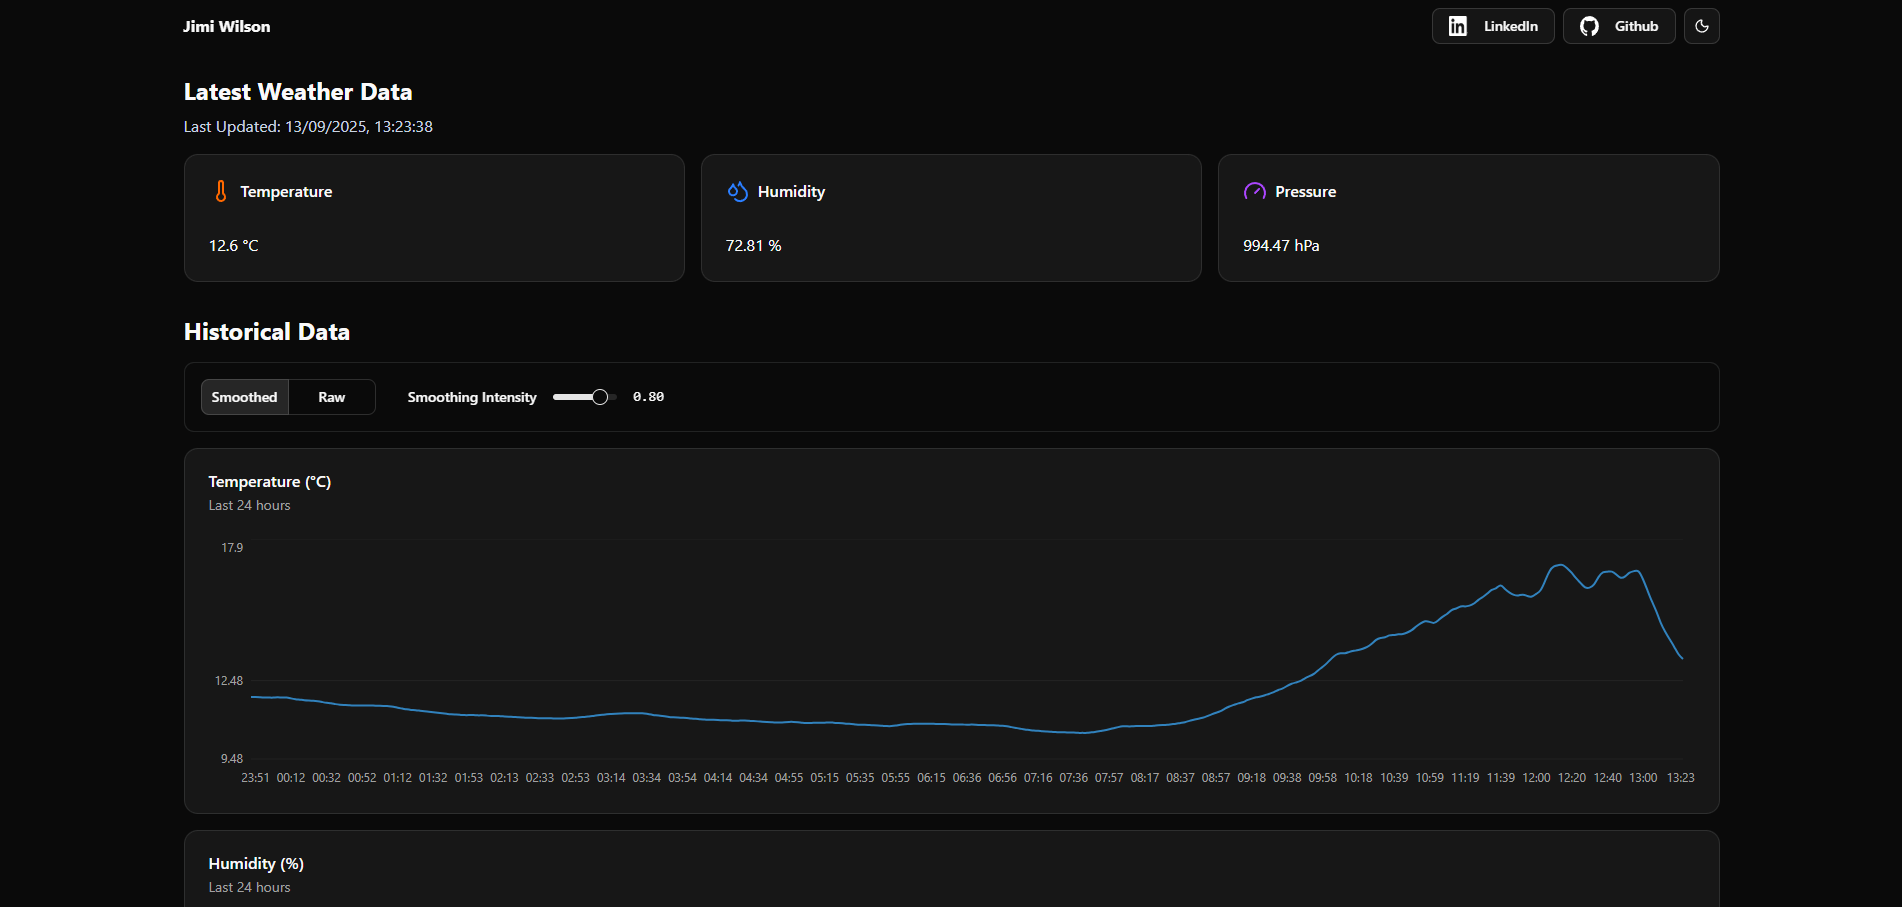
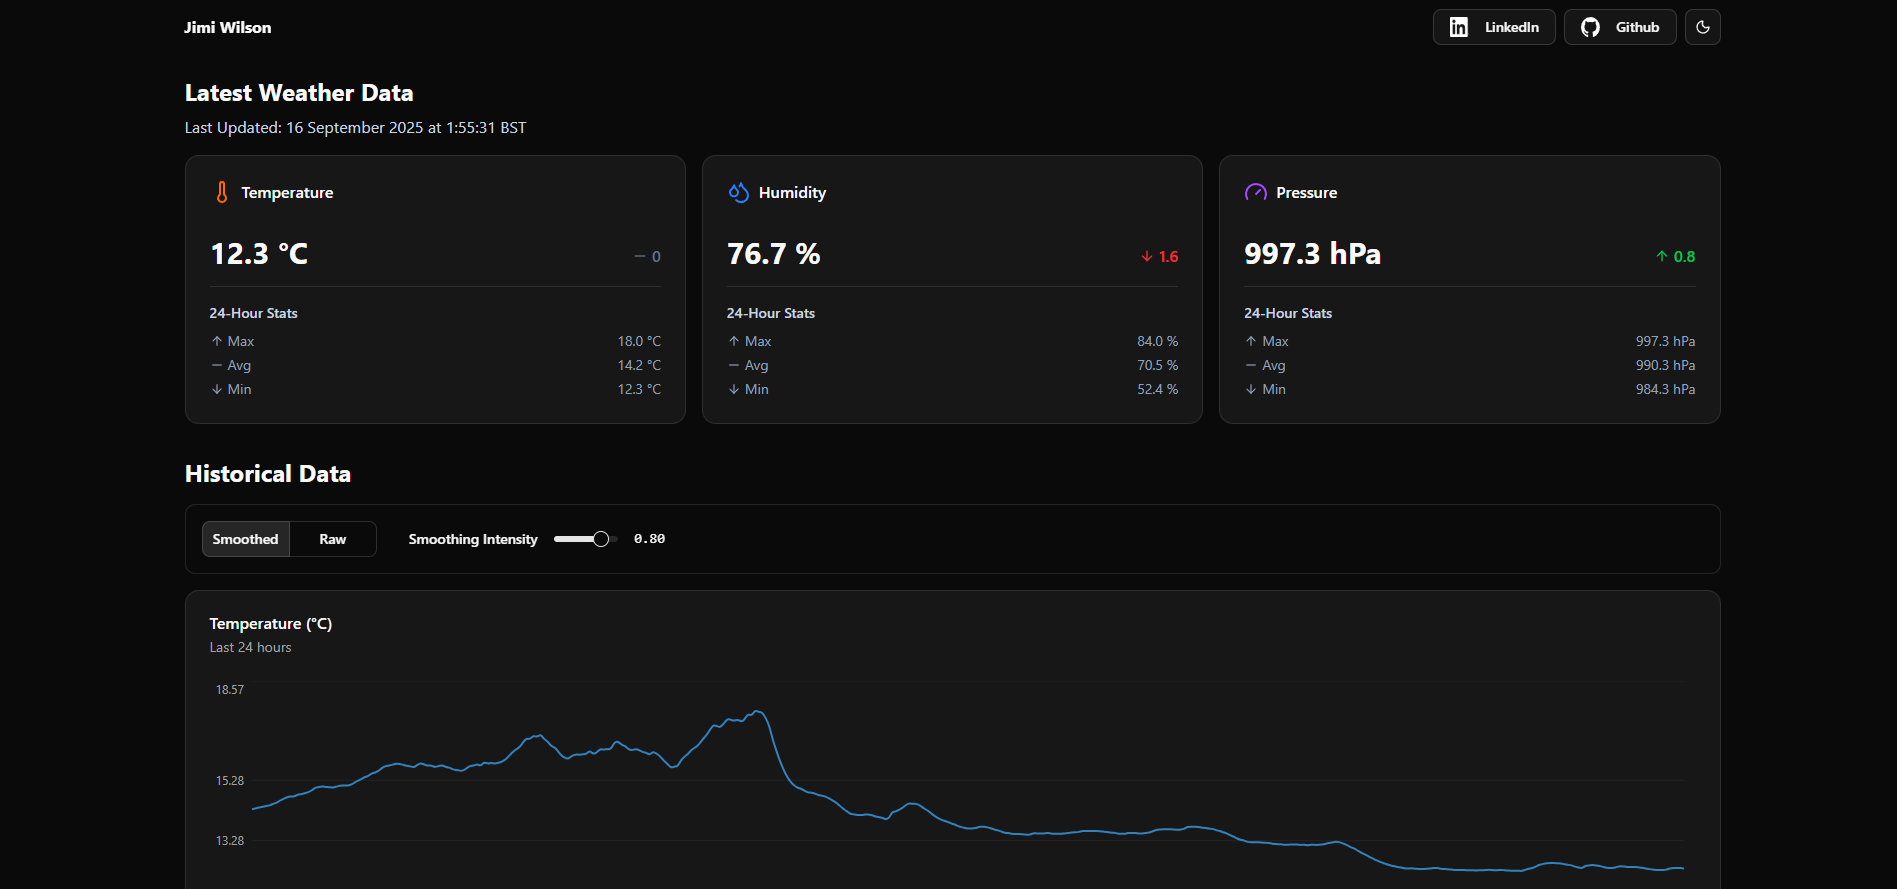
Feature (frontend & backend): Added weather statistics to weather metric cards
Refactored `GetWeatherDataStatsView` to improve validation, simplify response handling

Added `useWeatherDataStats` hook to fetch and manage weather stats data

Enhance `LatestWeatherWidget` with weather stats integration and improved error handling

Integrated `MetricStats` in `MetricCard` to display 24-hour max, avg, and min stats; update props to handle nullable stats and values

Handle zero change case in MetricCard by returning early

Fixed the rounding logic error

Updated readme screenshot

diff --git a/frontend/src/components/MetricCard.tsx b/frontend/src/components/MetricCard.tsx
@@ -6,13 +6,15 @@ import {
     CardTitle,
 } from "@/components/ui/card"
 import {ArrowDown, ArrowUp, Minus} from "lucide-react";
+import type {MetricStats} from "@/services/types.ts";
 
 type MetricCardProps = {
     label: string;
-    value: number;
+    value: number | null;
     unit: string;
     icon: React.ReactNode;
     change: number | null;
+    stats: MetricStats | null;
 }
 
 const cardStyles = {
@@ -29,7 +31,7 @@ const cardStyles = {
 
 type CardStyleKey = keyof typeof cardStyles;
 
-const MetricCard = ({ label, value, unit, icon, change}: MetricCardProps) => {
+const MetricCard = ({ label, value, unit, icon, change, stats}: MetricCardProps) => {
     const cardStyle = cardStyles[label.toLowerCase() as CardStyleKey];
 
     const getChangeIndicator = () => {
@@ -37,22 +39,27 @@ const MetricCard = ({ label, value, unit, icon, change}: MetricCardProps) => {
             return null;
         }
 
-        let colorClass = 'text-slate-500';
-        let ChangeIcon = <Minus size={16} />;
+        const roundedChange = parseFloat(change.toFixed(1));
 
-        if (change > 0) {
+        let colorClass: string;
+        let ChangeIcon: React.ReactNode;
+
+        if (roundedChange > 0) {
             colorClass = 'text-green-500';
             ChangeIcon = <ArrowUp size={16} />;
-        }
-        if (change < 0) {
+        } else if (roundedChange < 0) {
             colorClass = 'text-red-500';
             ChangeIcon = <ArrowDown size={16} />;
+        } else {
+            colorClass = 'text-slate-500';
+            ChangeIcon = <Minus size={16} />;
         }
+
 
         return (
             <div className={`flex items-center gap-1 font-semibold ${colorClass}`}>
                 {ChangeIcon}
-                <span>{Math.abs(change).toFixed(1)}</span>
+                <span>{Math.abs(roundedChange)}</span>
             </div>
         );
     };
@@ -79,6 +86,24 @@ const MetricCard = ({ label, value, unit, icon, change}: MetricCardProps) => {
                     </p>
                     {getChangeIndicator()}
                 </div>
+
+                {stats && (
+                    <div className="text-sm text-slate-500 dark:text-slate-400 space-y-1 pt-4 border-t">
+                        <p className="font-semibold text-slate-600 dark:text-slate-300 mb-2">24-Hour Stats</p>
+                        <div className="flex justify-between items-center">
+                            <span className="flex items-center gap-1"><ArrowUp size={14}/> Max</span>
+                            <span>{stats.maximum?.toFixed(1) ?? 'N/A'} {unit}</span>
+                        </div>
+                        <div className="flex justify-between items-center">
+                            <span className="flex items-center gap-1"><Minus size={14}/> Avg</span>
+                            <span>{stats.average?.toFixed(1) ?? 'N/A'} {unit}</span>
+                        </div>
+                        <div className="flex justify-between items-center">
+                            <span className="flex items-center gap-1"><ArrowDown size={14}/> Min</span>
+                            <span>{stats.minimum?.toFixed(1) ?? 'N/A'} {unit}</span>
+                        </div>
+                    </div>
+                )}
             </CardContent>
         </Card>
 

diff --git a/frontend/src/components/LatestWeatherWidget.tsx b/frontend/src/components/LatestWeatherWidget.tsx
@@ -1,19 +1,22 @@
 import {useLatestWeatherData} from "@/hooks/useLatestWeatherData.ts";
 import MetricCard from "@/components/MetricCard.tsx";
 import {Thermometer, Gauge, Droplets} from "lucide-react";
+import {useWeatherDataStats} from "@/hooks/useWeatherDataStats.ts";
 
 
 const LatestWeatherWidget = () => {
+    const {data: latestData, isLoading: latestLoading, error: latestError} = useLatestWeatherData();
+    const {data: statsData, isLoading: statsLoading, error: statsError} = useWeatherDataStats();
 
-    const {data, isLoading, error} = useLatestWeatherData();
+    if (latestLoading || statsLoading) return <div className="p-4 text-center">Loading weather data...</div>;
+    if (latestError || statsError) {
+        const errorMessage = latestError || statsError;
+        return <div className="p-4 text-red-500">Error: {errorMessage}</div>;
+    }
+    if (!latestData || ! statsData) return <div className="p-4 text-center">No weather data available</div>;
 
-
-    if (isLoading) return <div className="p-4 text-center">Loading weather data...</div>;
-    if (error) return <div className="p-4 text-red-500">Error: {error}</div>;
-    if (!data) return <div className="p-4 text-center">No weather data available</div>;
-
-    const latest_reading = data.latest_reading;
-    const diff = data.difference_from_previous
+    const latest_reading = latestData.latest_reading;
+    const diff = latestData.difference_from_previous
 
     const formattingOptions: Intl.DateTimeFormatOptions = {
         timeZone: 'Europe/London',
@@ -30,21 +33,18 @@ const LatestWeatherWidget = () => {
         <div>
             <h2 className="text-2xl font-bold mb-2">Latest Weather Data</h2>
             <p className="text-slate-500 dark:text-slate-300 mb-4">
-                Last Updated: {new Date(data.latest_reading.timestamp).toLocaleString("en-GB", formattingOptions)}
+                Last Updated: {new Date(latestData.latest_reading.timestamp).toLocaleString("en-GB", formattingOptions)}
             </p>
 
         <div className="grid gap-4 md:grid-cols-3">
-            <MetricCard label="Temperature" value={latest_reading.temperature} unit="°C" icon={<Thermometer />} change={diff?.temperature} />
-            <MetricCard label="Humidity" value={latest_reading.humidity} unit="%" icon={<Droplets />} change={diff?.humidity} />
-            <MetricCard label="Pressure" value={latest_reading.pressure} unit="hPa"  icon={<Gauge />} change={diff?.pressure}/>
+            <MetricCard label="Temperature" value={latest_reading.temperature} unit="°C" icon={<Thermometer />} change={diff?.temperature} stats={statsData.temperature} />
+            <MetricCard label="Humidity" value={latest_reading.humidity} unit="%" icon={<Droplets />} change={diff?.humidity} stats={statsData.humidity} />
+            <MetricCard label="Pressure" value={latest_reading.pressure} unit="hPa"  icon={<Gauge />} change={diff?.pressure} stats={statsData.pressure} />
 
        </div>
         </div>
 
     );
-
-
-
 }
 
 export default LatestWeatherWidget;

diff --git a/frontend/src/hooks/useWeatherDataStats.ts b/frontend/src/hooks/useWeatherDataStats.ts
@@ -1,0 +1,40 @@
+import {useCallback, useEffect, useState} from "react";
+import {weatherService} from "@/services/weatherService.ts";
+import type {WeatherStats} from "@/services/types.ts";
+import axios from "axios";
+
+export const useWeatherDataStats = (hours: number = 24) => {
+    const [data, setData] = useState<WeatherStats | null>(null);
+    const [isLoading, setIsLoading] = useState(true);
+    const [error, setError] = useState<string | null>(null);
+
+    const fetchData = useCallback(
+        async () => {
+            try {
+                if (!data) setIsLoading(true);
+                setError(null);
+                const weatherData = await weatherService.getWeatherDataStats(hours);
+                setData(weatherData);
+            } catch (err) {
+                if (axios.isAxiosError(err)) {
+                    const errorMessage = err.response?.data?.detail || err.message || 'Failed to fetch weather stats data';
+                    setError(errorMessage);
+                } else {
+                    setError('An unexpected error occurred');
+                }
+            } finally {
+                setIsLoading(false);
+            }
+
+        }, [hours]);
+
+
+    useEffect(() => {
+        fetchData();
+    }, [fetchData]);
+
+
+
+    return { data, isLoading, error };
+
+}

diff --git a/frontend/src/services/types.ts b/frontend/src/services/types.ts
@@ -22,14 +22,14 @@ export interface PaginatedWeatherResponse {
 }
 
 export interface MetricStats {
-    minimum: number;
-    maximum: number;
-    average: number;
+    minimum: number | null;
+    maximum: number | null;
+    average: number | null;
 }
 
 
 export interface WeatherStats {
-    temperature_stats: MetricStats;
-    humidity_stats: MetricStats;
-    pressure_stats: MetricStats;
+    temperature: MetricStats;
+    humidity: MetricStats;
+    pressure: MetricStats;
 }

diff --git a/backend/weather_data_handler/views.py b/backend/weather_data_handler/views.py
@@ -123,13 +123,18 @@ class GetRecentWeatherDataView(generics.ListAPIView):
         return Reading.objects.filter(timestamp__gte=since).order_by("timestamp")
 
 
-class GetWeatherDataStatsView(generics.GenericAPIView):
+class GetWeatherDataStatsView(APIView):
 
     def get(self, request):
-        hours_str = request.query_params.get("hours", 24)
+        hours_str = request.query_params.get("hours", "24")
 
         try:
             hours = int(hours_str)
+            if hours <= 0:
+                return Response(
+                    {"detail": "Query parameter 'hours must be a positive non-zero integer."},
+                    status=status.HTTP_400_BAD_REQUEST
+                )
         except ValueError:
             return Response(
                 {"detail": "Query parameter 'hours must be an integer."},
@@ -139,11 +144,6 @@ class GetWeatherDataStatsView(generics.GenericAPIView):
         since = dtz.now() - timedelta(hours=hours)
 
         queryset = Reading.objects.filter(timestamp__gte=since)
-
-        if not queryset.exists():
-            return Response({
-                "detail": "There is no data available for the specified period."
-            })
 
         stats = queryset.aggregate(
             count=Count("id"),
@@ -161,9 +161,6 @@ class GetWeatherDataStatsView(generics.GenericAPIView):
         )
 
         response_data = {
-            "period_hours": hours,
-            "count": stats["count"],
-
             "temperature": {
                 "average": stats["avg_temperature"],
                 "maximum": stats["max_temperature"],
@@ -183,5 +180,4 @@ class GetWeatherDataStatsView(generics.GenericAPIView):
             },
         }
 
-        serializer = WeatherStatsSerializer(instance=response_data)
-        return Response(serializer.data)
+        return Response(response_data, status=status.HTTP_200_OK)
